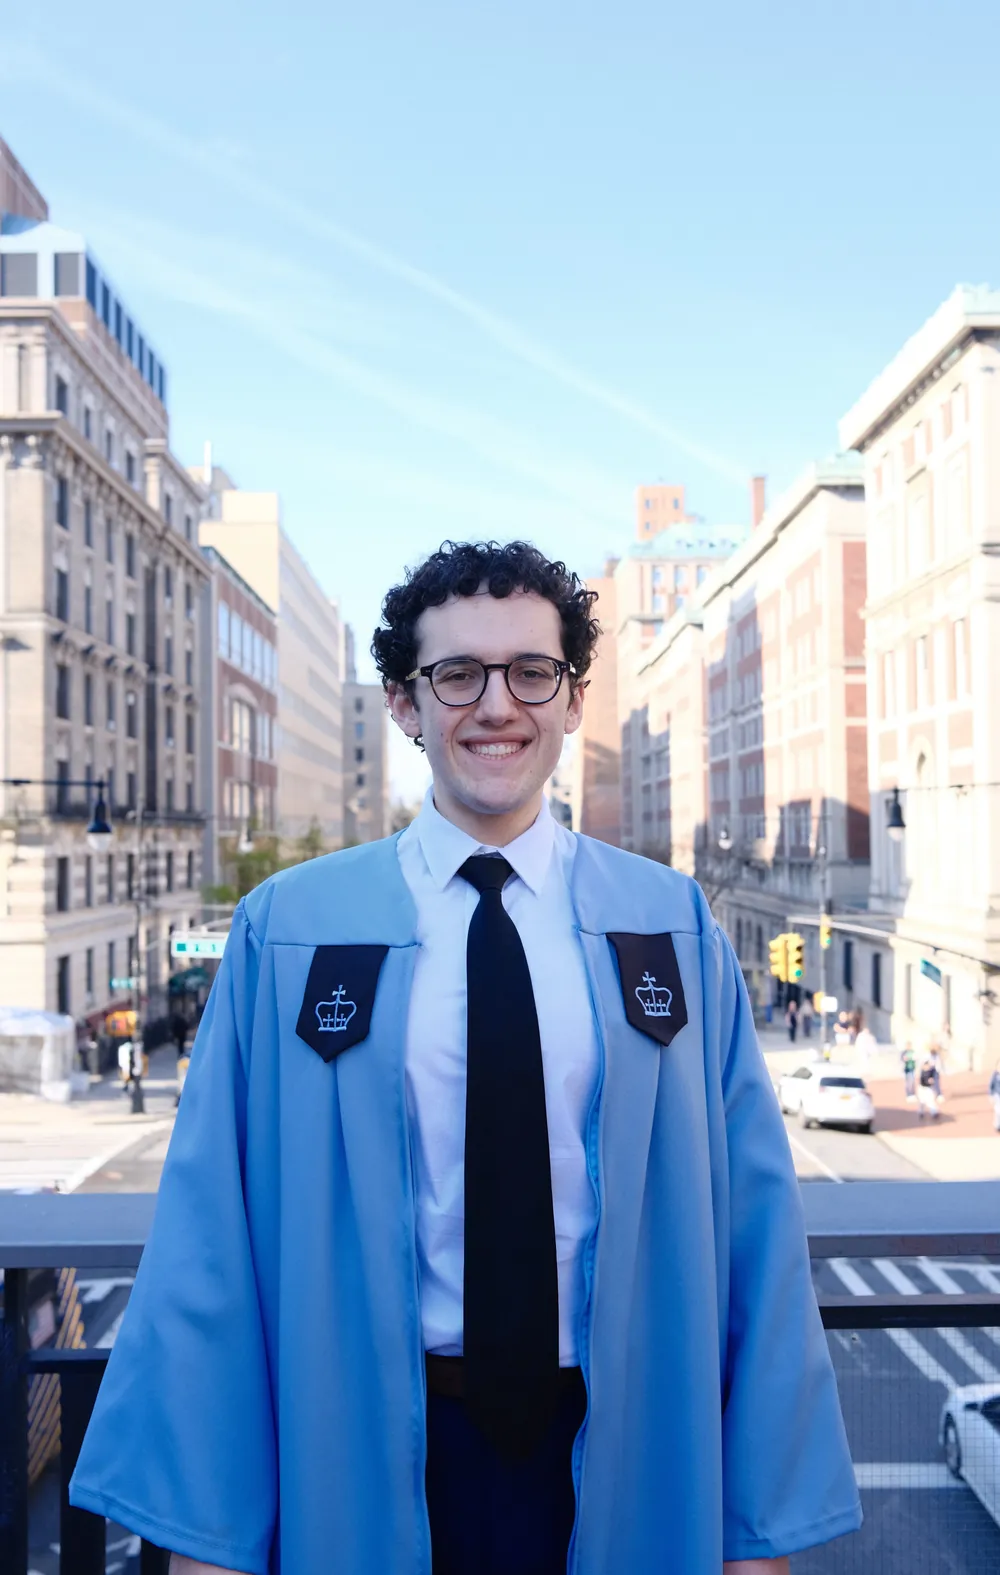
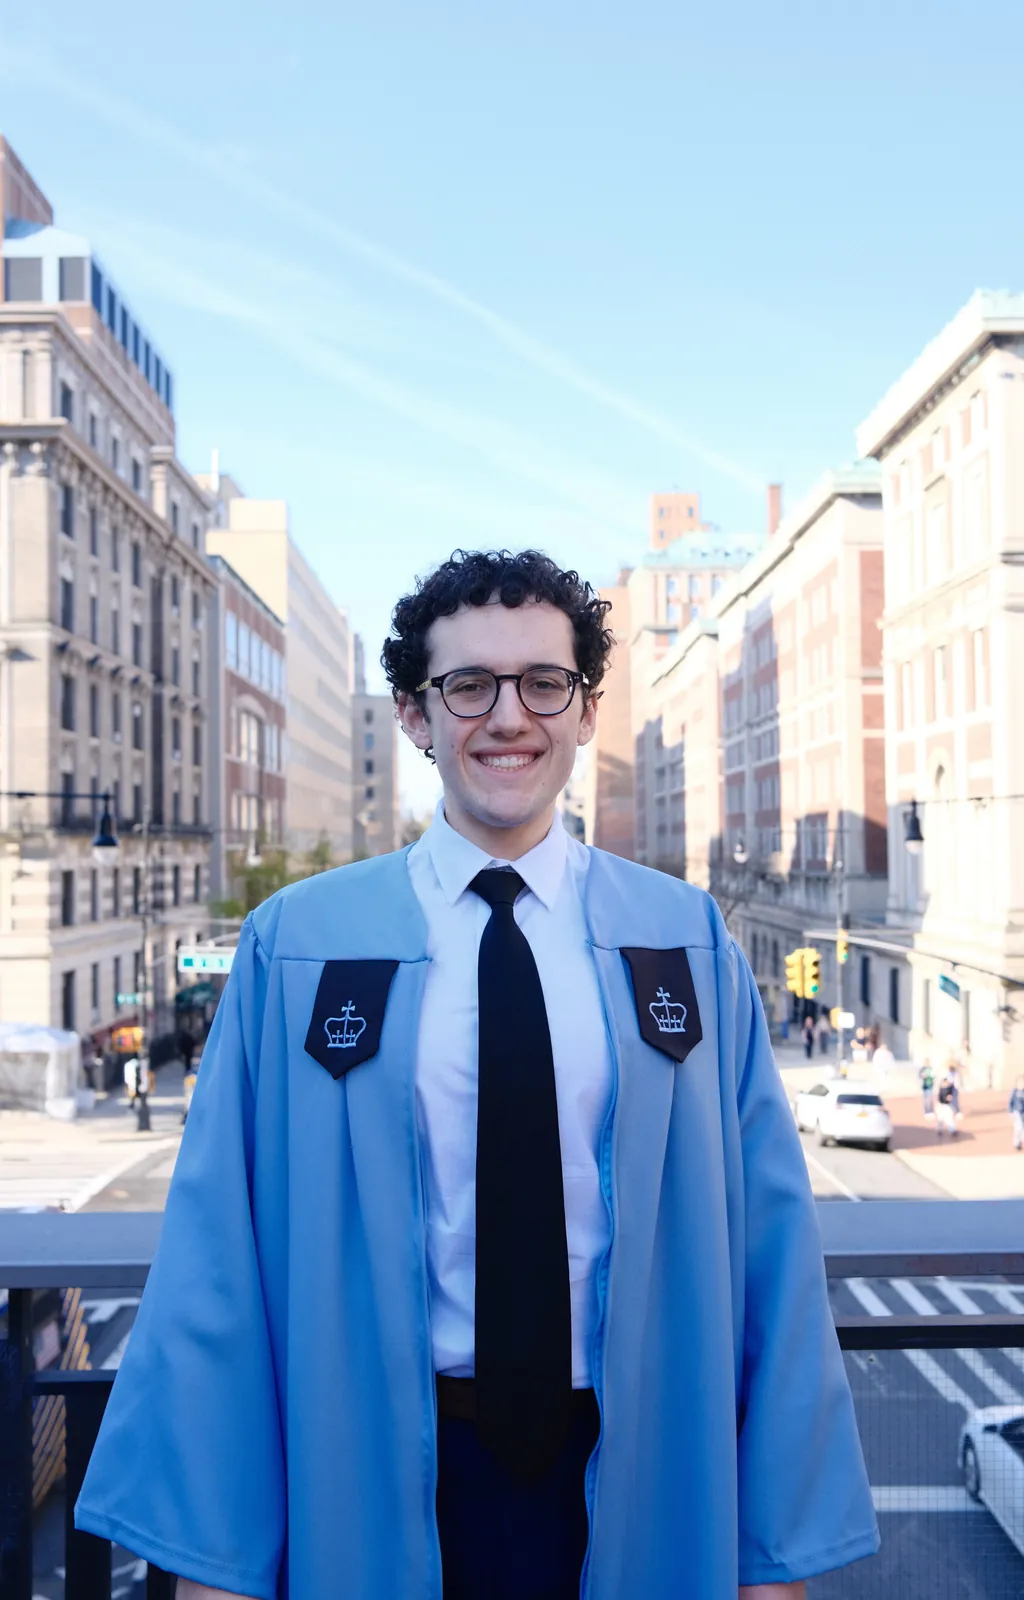
Use 12-line modules and a 16:25 tall slot

diff --git a/app/globals.css b/app/globals.css
@@ -45,7 +45,7 @@
  */
 :root {
   --line: calc(var(--text-sm) * var(--leading-body));
-  --grid-module-lines: 10;
+  --grid-module-lines: 12;
   --grid-gutter: var(--line);
   --grid-col: calc(4 / 3 * var(--grid-module-lines) * var(--line));
   /* One row of modules, the vertical counterpart of --grid-col. */
@@ -94,15 +94,15 @@
    * custom properties. `cols2` is two columns and the three gutters around
    * them, `cols4` is four columns and their five gutters.
    */
-  --breakpoint-cols2: 44.5rem;
-  --breakpoint-cols4: 87.5rem;
+  --breakpoint-cols2: 52.5rem;
+  --breakpoint-cols4: 103.5rem;
 }
 
 /*
  * The larger display step, from `cols2` up. The width is spelled out because a
  * plain media query cannot read `--breakpoint-cols2`.
  */
-@media (width >= 44.5rem) {
+@media (width >= 52.5rem) {
   :root {
     --text-h3: 1.25rem;
     --text-h2: 2rem;

diff --git a/components/ModuleImage.module.css b/components/ModuleImage.module.css
@@ -5,8 +5,8 @@
  * exactly. The crop measures against `.frame`, and falls back to the plain
  * ratio without round().
  *
- * `.cropTall` is the portrait counterpart, two module rows tall: 21 lines
- * against a column's 40/3, hence 40:63.
+ * `.cropTall` is the portrait counterpart, two module rows and the gutter
+ * between them tall: 25 lines against a column's 16, hence 16:25.
  */
 .frame {
   container-type: inline-size;
@@ -21,7 +21,7 @@
 
 .cropTall {
   inline-size: 100%;
-  aspect-ratio: 40 / 63;
-  block-size: round(nearest, calc(63 / 40 * 100cqw), var(--line));
+  aspect-ratio: 16 / 25;
+  block-size: round(nearest, calc(25 / 16 * 100cqw), var(--line));
   object-fit: cover;
 }

diff --git a/components/ModuleImage.tsx b/components/ModuleImage.tsx
@@ -10,7 +10,7 @@ import styles from "./ModuleImage.module.css";
  * either way.
  */
 const WIDE_SIZE = { width: 1600, height: 1200 };
-const TALL_SIZE = { width: 1000, height: 1575 };
+const TALL_SIZE = { width: 1024, height: 1600 };
 
 type ModuleImageProps = {
   src: string;

diff --git a/README.md b/README.md
@@ -36,8 +36,8 @@ npm run serve   # serves the built `out/` directory locally
 
 The static export runs no image optimization, so every file in `public/img` is served exactly as it is committed and has to be prepared before it lands here:
 
-- **Cropped to its slot on the grid.** `ModuleImage` renders a photograph in one 4:3 module, or with `tall` in a portrait two module rows deep, which the grid makes 40:63. The file is cropped to that ratio and the component derives the dimensions from it, so no image carries its own width and height
-- **Capped at 1600 px on the long edge**, roughly 2.4x the widest a module ever renders. A source smaller than that is left alone rather than upscaled
+- **Cropped to its slot on the grid.** `ModuleImage` renders a photograph in one 4:3 module, or with `tall` in a portrait two module rows deep, which the grid makes 16:25. The file is cropped to that ratio and the component derives the dimensions from it, so no image carries its own width and height
+- **Capped at 1600 px on the long edge**, roughly 2x the widest a module ever renders. A source smaller than that is left alone rather than upscaled
 - **WebP at quality 80**, with metadata stripped. Icons painted as CSS masks are SVG, where only the shape matters
 - **Named for what it belongs to**, in kebab-case, flat in `public/img`. A project's photograph takes the project's own `id` from `data/projects.tsx`
 
